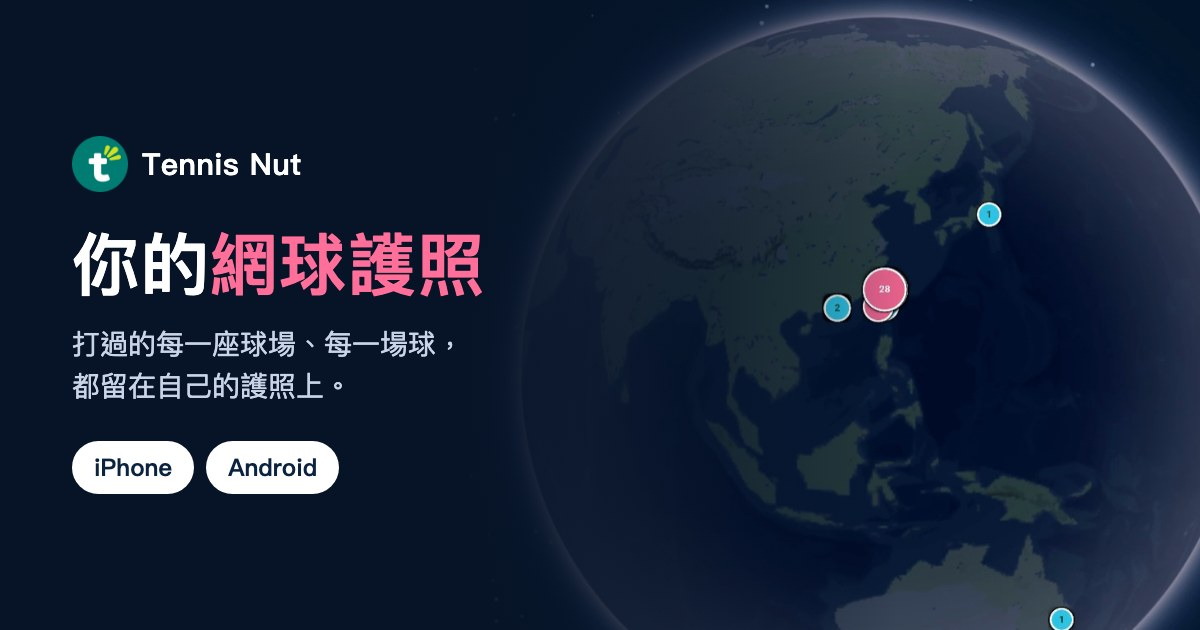
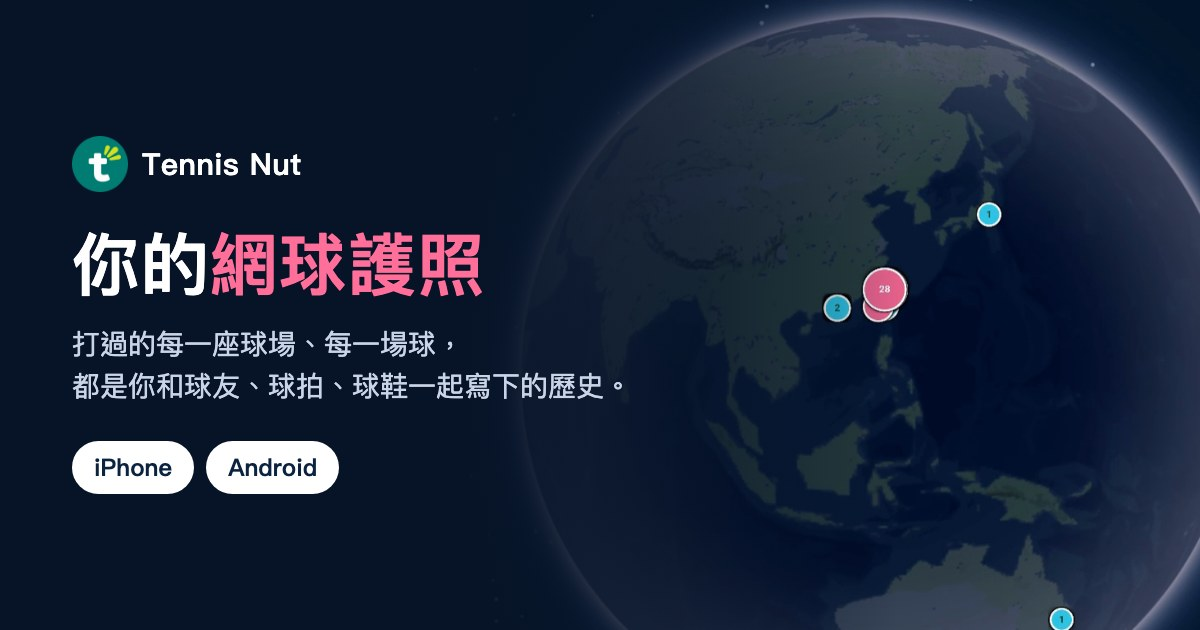
copy(install): 預覽圖與分享說明換成「都是你和球友、球拍、球鞋一起寫下的歷史」
Claude-Session: https://claude.ai/code/session_01FhLZvYEnppwCMKXJdT7oVi

Changed region(s): [[0.0617, 0.573, 0.5242, 0.6333]]

diff --git a/install.html b/install.html
@@ -19,7 +19,7 @@
   <title>安裝 App · Tennis Nut</title>
   <meta name="description" content="如何安裝 Tennis Nut：iPhone 從 App Store 直接下載；Android 加入 Google Play 測試的步驟教學。" />
   <meta property="og:title" content="你的網球護照 — 安裝 Tennis Nut" />
-  <meta property="og:description" content="打過的每一座球場、每一場球，都留在自己的護照上。iPhone 從 App Store 下載，Android 加入 Google Play 測試。" />
+  <meta property="og:description" content="打過的每一座球場、每一場球，都是你和球友、球拍、球鞋一起寫下的歷史。iPhone 從 App Store 下載，Android 加入 Google Play 測試。" />
   <meta property="og:type" content="website" />
   <meta property="og:url" content="https://tennisnut.kxon.net/install" />
   <meta property="og:image" content="https://tennisnut.kxon.net/install-og.jpg" />
